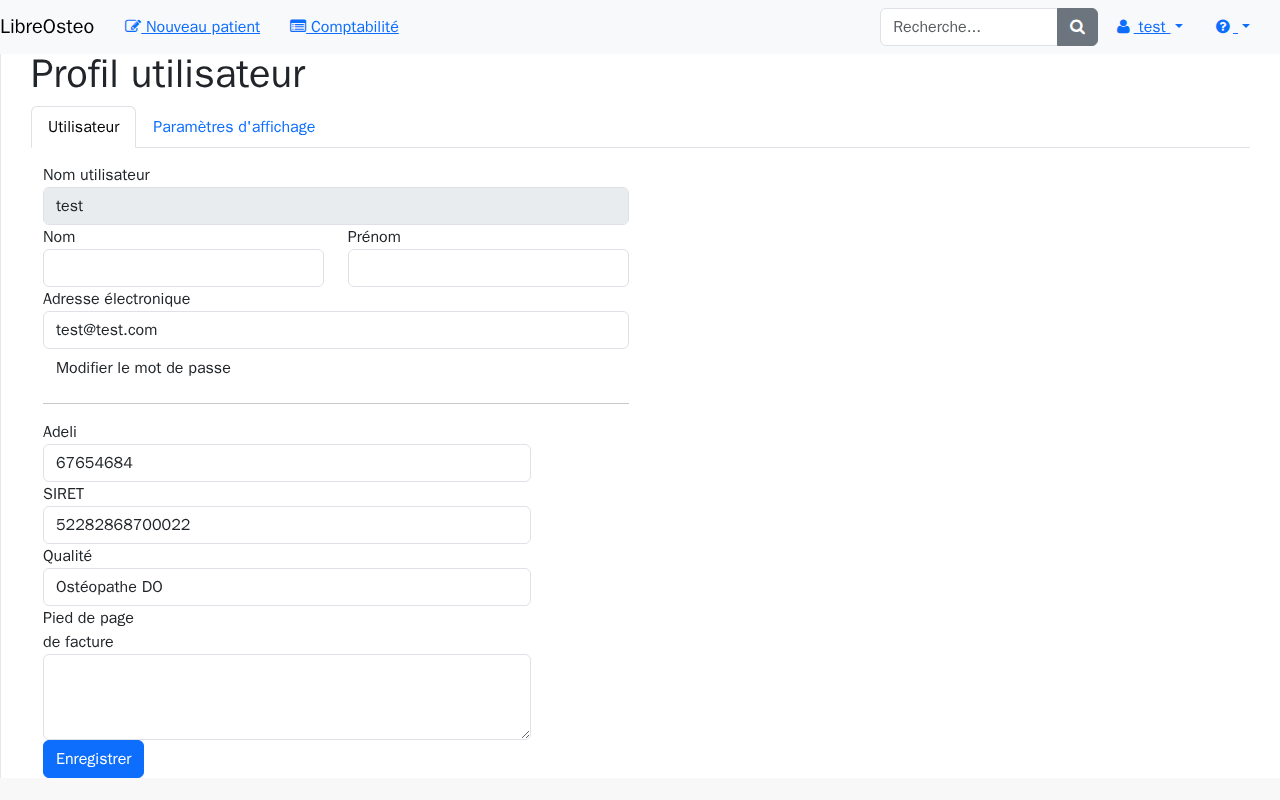
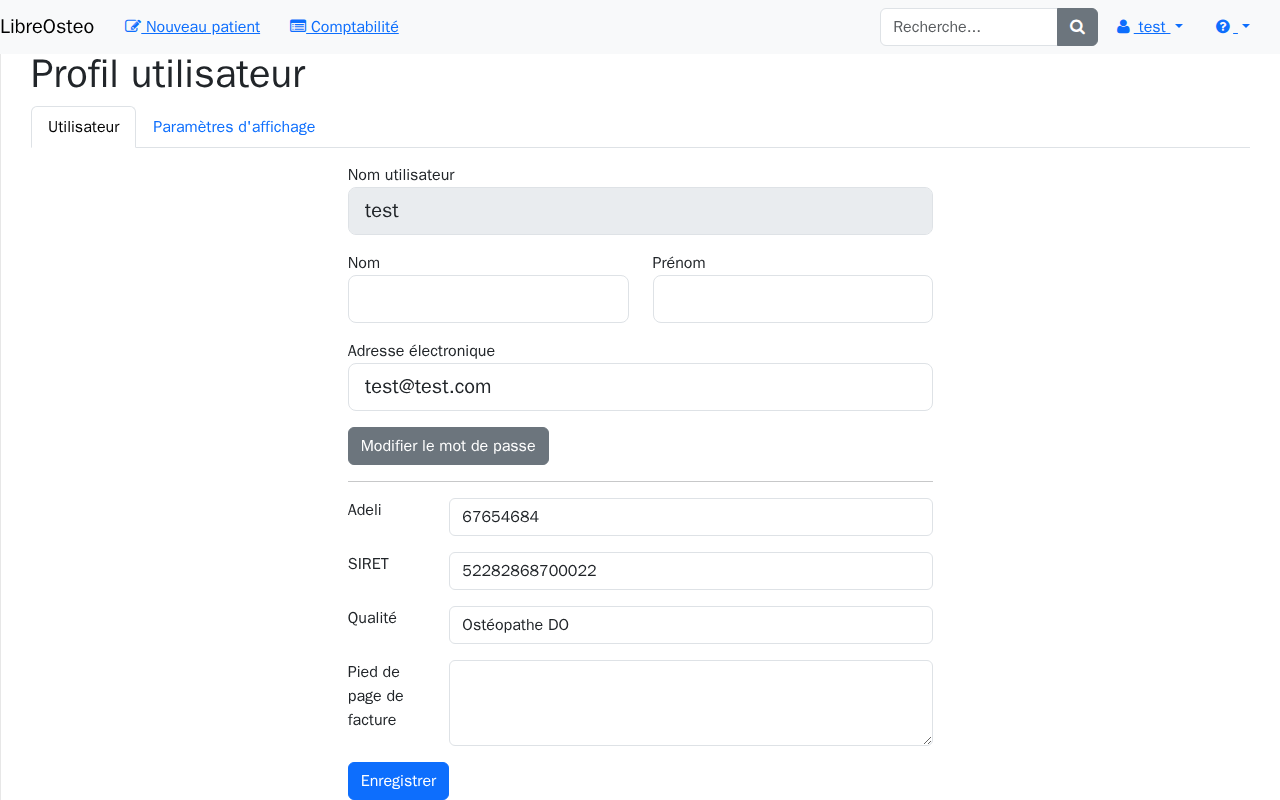
fix: basculer l'ecran profil therapeute sur Bootstrap 5 (D6g T12)
profil.html, profil-identite.html, profil-affichage.html et mot-de-passe.html
(dont T12 reste seul proprietaire, partage avec le cabinet) : les 33 occurrences
mesurees (32 dans les gabarits + 1 posee depuis Python dans profil.py:52) sont
reecrites contre l'annexe A du plan D6g.

form-horizontal et form-group disparaissent tous deux sans equivalent direct,
mais leur effet combine faisait office de .row pour aligner label et champ du
bloc therapeute cote a cote (Bootstrap 3 : .form-horizontal .form-group porte
les marges negatives d'une rangee). Les quatre form-group concernes deviennent
donc row mb-3, pas seulement mb-3, pour que le bloc Adeli/SIRET/Qualite/Pied de
page de facture reste aligne a 1280 px (piege n2 du patron : precondition
tacite d'une correspondance de l'annexe, ici sur la grille plutot que sur un
bouton). checkbox -> form-check recoit de meme form-check-input et
form-check-label sur ses enfants.

Fiche R-VIS-11 remplie dans docs/recette.md, relue contre les deux captures
versees. Aucune regle CSS orpheline (delta vide, avant/apres). make check
vert : 949 tests, couverture 94,93 %.

diff --git a/libreosteoweb/templates/pages/fragments/profil-identite.html b/libreosteoweb/templates/pages/fragments/profil-identite.html
@@ -4,7 +4,7 @@
 {# l'est pour les resultats de recherche (D6c, A7). #}
 <div class="container-fluid">
   <div class="row">
-    <div class="col-xs-12 col-sm-8 col-md-6 col-sm-offset-2 col-md-offset-3">
+    <div class="col-12 col-sm-8 col-md-6 offset-sm-2 offset-md-3">
       {# Pas de `novalidate` : il n'existait que parce qu'Angular validait a la place du #}
       {# navigateur. `hx-target` vise le conteneur de l'onglet, jamais le document : #}
       {# l'echange est partiel, et l'onglet actif ne bouge pas (A11). #}
@@ -12,31 +12,31 @@
             hx-target="#onglet-identite"
             hx-swap="innerHTML">
         {% csrf_token %}
-        <div class="form-group">
+        <div class="mb-3">
           {# L'identifiant est en lecture seule, comme aujourd'hui (`ng-disabled="true"`), #}
           {# et il n'est pas un champ du formulaire : le poster ne changerait rien, et #}
           {# `Meta.fields` ne le declare pas. #}
           <label for="username">{% trans 'Username' %}</label>
-          <input type="text" id="username" name="username" class="form-control input-lg"
+          <input type="text" id="username" name="username" class="form-control form-control-lg"
                  value="{{ utilisateur.username }}" disabled>
         </div>
         <div class="row">
-          <div class="col-xs-6 col-sm-6 col-md-6">
-            <div class="form-group">
+          <div class="col-6 col-sm-6 col-md-6">
+            <div class="mb-3">
               <label for="{{ formulaire_identite.last_name.id_for_label }}">{{ formulaire_identite.last_name.label }}</label>
               {{ formulaire_identite.last_name }}
               {{ formulaire_identite.last_name.errors }}
             </div>
           </div>
-          <div class="col-xs-6 col-sm-6 col-md-6">
-            <div class="form-group">
+          <div class="col-6 col-sm-6 col-md-6">
+            <div class="mb-3">
               <label for="{{ formulaire_identite.first_name.id_for_label }}">{{ formulaire_identite.first_name.label }}</label>
               {{ formulaire_identite.first_name }}
               {{ formulaire_identite.first_name.errors }}
             </div>
           </div>
         </div>
-        <div class="form-group">
+        <div class="mb-3">
           <label for="{{ formulaire_identite.email.id_for_label }}">{{ formulaire_identite.email.label }}</label>
           {{ formulaire_identite.email }}
           {{ formulaire_identite.email.errors }}
@@ -46,29 +46,30 @@
         {# Le bouton reste affiche pour tout le monde, comme aujourd'hui : le refus #}
         {# oppose a un non-administrateur est celui du serveur, et il s'affiche en #}
         {# notification d'erreur (A22). #}
-        <button class="btn btn-default" type="button"
+        <button class="btn btn-secondary" type="button"
                 hx-get="{% url 'profil-mot-de-passe' %}"
                 hx-target="#modale">{% trans 'Change password'%}</button>
         {% endif %}
         <hr/>
-        <div class="form-horizontal">
+        {# D6g T12 : form-horizontal disparait sans equivalent ; row remplace ici form-group pour garder label et champ cote a cote (annexe A, style repris). #}
+        <div>
           {# Les deux premiers libelles sont **dynamiques** : ils viennent des reglages du #}
           {# cabinet (`professional_id_label` vaut « Adeli », `office_identifier_label` #}
           {# vaut « SIRET » au socle E1), et `R-THE-01` etape 1 les decrit comme tels. #}
-          <div class="form-group">
-            <label for="inputProfessionalId" class="col-sm-2 control-label">{{ officesettings.professional_id_label }}</label>
+          <div class="row mb-3">
+            <label for="inputProfessionalId" class="col-sm-2 form-label">{{ officesettings.professional_id_label }}</label>
             <div class="col-sm-10">{{ formulaire_therapeute.professional_id }}</div>
           </div>
-          <div class="form-group">
-            <label for="inputOfficeIdentifier" class="col-sm-2 control-label">{{ officesettings.office_identifier_label }}</label>
+          <div class="row mb-3">
+            <label for="inputOfficeIdentifier" class="col-sm-2 form-label">{{ officesettings.office_identifier_label }}</label>
             <div class="col-sm-10">{{ formulaire_therapeute.office_identifier }}</div>
           </div>
-          <div class="form-group">
-            <label for="inputQuality" class="col-sm-2 control-label">{{ formulaire_therapeute.quality.label }}</label>
+          <div class="row mb-3">
+            <label for="inputQuality" class="col-sm-2 form-label">{{ formulaire_therapeute.quality.label }}</label>
             <div class="col-sm-10">{{ formulaire_therapeute.quality }}</div>
           </div>
-          <div class="form-group">
-            <label for="inputFooter" class="col-sm-2 control-label">{{ formulaire_therapeute.invoice_footer.label }}</label>
+          <div class="row mb-3">
+            <label for="inputFooter" class="col-sm-2 form-label">{{ formulaire_therapeute.invoice_footer.label }}</label>
             <div class="col-sm-10">{{ formulaire_therapeute.invoice_footer }}</div>
           </div>
         </div>

diff --git a/libreosteoweb/templates/pages/fragments/profil-affichage.html b/libreosteoweb/templates/pages/fragments/profil-affichage.html
@@ -7,24 +7,25 @@
           hx-swap="innerHTML">
       {% csrf_token %}
       {% for vue in modules %}
-      <div class="col-xs-12 col-sm-12 col-md-2 col-md-offset-1">
+      <div class="col-12 col-sm-12 col-md-2 offset-md-1">
         <h2>{{ vue.nom }}</h2>
         <em>modules activés</em>
       </div>
-      <div class="col-xs-12 col-sm-12 col-md-9">
+      <div class="col-12 col-sm-12 col-md-9">
         {% for module in vue.modules %}
         <div class="row dashboard-catalog-item">
-          <div class="col-xs-12 col-sm-4 col-md-4 checkbox">
+          {# D6g T12 : checkbox -> form-check suppose form-check-input/form-check-label sur les enfants (annexe A, precondition tacite). #}
+          <div class="col-12 col-sm-4 col-md-4 form-check">
             {# Le libelle enveloppe la case : c'est ce qui rend #}
             {# `page.get_by_label("Historique des évènements")` valide, et c'est ainsi que #}
             {# le gabarit d'avant l'ecrivait deja. Une case decochee n'est pas envoyee par #}
             {# le navigateur : la vue lit la presence du nom, jamais sa valeur. #}
-            <label>
-              <input type="checkbox" name="{{ module.nom }}" {% if module.actif %}checked{% endif %} />
+            <label class="form-check-label">
+              <input type="checkbox" class="form-check-input" name="{{ module.nom }}" {% if module.actif %}checked{% endif %} />
               {{ module.libelle }}
             </label>
           </div>
-          <div class="col-xs-10 col-xs-offset-1 col-sm-8 col-md-7">
+          <div class="col-10 offset-1 col-sm-8 col-md-7">
             <img src="{% static module.image %}" alt="" />
           </div>
         </div>
@@ -32,7 +33,7 @@
         {% endfor %}
       </div>
       {% endfor %}
-      <div class="col-xs-12 col-sm-12 col-md-2 col-md-offset-3">
+      <div class="col-12 col-sm-12 col-md-2 offset-md-3">
         {# `data-testid="enregistrer-affichage"` : pose par D6d T4 sur le gabarit d'avant, #}
         {# reporte ici a l'octet. Sans lui, les deux boutons « Enregistrer » de la page #}
         {# produiraient une violation de mode strict, que Playwright ne rejoue jamais. #}

diff --git a/libreosteoweb/templates/pages/fragments/mot-de-passe.html b/libreosteoweb/templates/pages/fragments/mot-de-passe.html
@@ -9,12 +9,12 @@
   {% if erreur %}
   <div class="alert alert-danger" role="alert" data-testid="erreur-mot-de-passe">{{ erreur }}</div>
   {% endif %}
-  <div class="form-group">
+  <div class="mb-3">
     <label for="password1">{% trans 'Password' %}</label>
     <input type="password" class="form-control" required name="password1" id="password1"
            placeholder="{% trans 'Password' %}">
   </div>
-  <div class="form-group">
+  <div class="mb-3">
     <label for="password2">{% trans 'Confirm the password' %}</label>
     <input type="password" class="form-control" required name="password2" id="password2"
            placeholder="{% trans 'Password' %}">

diff --git a/libreosteoweb/templates/pages/profil.html b/libreosteoweb/templates/pages/profil.html
@@ -13,7 +13,8 @@
 
 {% block contenu %}
 <div id="page-wrapper">
-    <h1 class="page-header" data-testid="titre-profil">
+    {# D6g T12 : page-header disparait sans equivalent (comme T13, tableau-de-bord.html). #}
+    <h1 data-testid="titre-profil">
         {% trans 'User profile' %}
     </h1>
 

diff --git a/libreosteoweb/api/views/pages/profil.py b/libreosteoweb/api/views/pages/profil.py
@@ -49,7 +49,7 @@ class FormulaireIdentite(forms.ModelForm):
         kwargs.setdefault("auto_id", "%s")
         super().__init__(*args, **kwargs)
         for nom, champ in self.fields.items():
-            champ.widget.attrs["class"] = "form-control input-lg"
+            champ.widget.attrs["class"] = "form-control form-control-lg"
         # `required` sur le nom et l'adresse : `user-profile.html` les marquait ainsi, et
         # l'engagement du chantier est « memes ecrans ». Le prenom ne l'etait pas.
         self.fields["last_name"].required = True

diff --git a/docs/recette.md b/docs/recette.md
@@ -4053,11 +4053,38 @@ et `profil-375.png`.
 **Étapes**
 
 1. Menu utilisateur → *Profil utilisateur*, fenêtre à **1 280 px de large**.
-   Attendu : <écrit par T12>
+   Attendu : le titre **Profil utilisateur** est entièrement visible, sans trait ni marge
+   excessive sous lui (D6g T12 : `page-header` disparaît sans équivalent, comme T13 et
+   T15). Sous le titre, deux onglets sur un même filet horizontal, *Utilisateur* actif et
+   encadré, *Paramètres d'affichage* inactif. Le champ **Nom utilisateur** occupe toute la
+   largeur du formulaire, fond grisé, en lecture seule. Sous lui, les champs **Nom** et
+   **Prénom** sont **côte à côte**, chacun sur la moitié de la largeur (D6g T12 :
+   `col-xs-6` devient `col-6`, sans palier, donc toujours actif). Le champ **Adresse
+   électronique** occupe à nouveau toute la largeur. Le bouton **Modifier le mot de
+   passe** (gris) suit, puis un filet horizontal sépare le formulaire d'identité du bloc
+   thérapeute : les quatre champs **Adeli**, **SIRET**, **Qualité** et **Pied de page de
+   facture** portent chacun leur étiquette à gauche et leur champ de saisie à droite, sur
+   une même ligne, sans chevauchement (D6g T12 : `form-horizontal` et `form-group`
+   disparaissent sans équivalent direct ; `row` reprend ici le comportement de mise en
+   ligne que `form-horizontal` donnait à `form-group`). Le bouton **Enregistrer** (bleu)
+   clôt le formulaire. Aucune barre de défilement horizontale.
 2. Ramener la fenêtre à **375 px de large**.
-   Attendu : <écrit par T12>
+   Attendu : le titre et les deux onglets restent lisibles sur une seule ligne. **Nom** et
+   **Prénom** restent côte à côte, inchangés (même motif qu'à 1 280 px : `col-6` n'a pas de
+   palier). En revanche, chacun des quatre champs du bloc thérapeute (**Adeli**, **SIRET**,
+   **Qualité**, **Pied de page de facture**) affiche son étiquette **au-dessus** de son
+   champ de saisie, empilés : à cette largeur, `col-sm-2`/`col-sm-10` sont sous leur palier
+   `sm` (576 px) et perdent leur alignement côte à côte — comportement attendu, pas une
+   régression. Aucune barre de défilement horizontale.
 
-**Ne couvre pas** : <écrit par T12>
+**Ne couvre pas** : l'onglet *Paramètres d'affichage* (les modules à cocher avec leur
+aperçu image) et la modale *Modifier le mot de passe* — ni l'un ni l'autre n'est dans les
+deux captures versées, qui ne portent que l'onglet *Utilisateur* ouvert par défaut,
+conformément au script `capture_socle_visuel.py`. Le premier est prouvé par le geste
+(`tests/functional/test_therapeute.py::test_modules_d_affichage_du_profil`) et a été
+vérifié par l'œil pendant cette tâche, sans capture retenue (budget de 32 fichiers,
+2 par écran) ; le second est décrit par `R-AUTH-05`, dont T12 reste seul propriétaire du
+gabarit `fragments/mot-de-passe.html` qu'il exerce.
 
 ### R-VIS-12 — Socle visuel : tableau de bord
 
